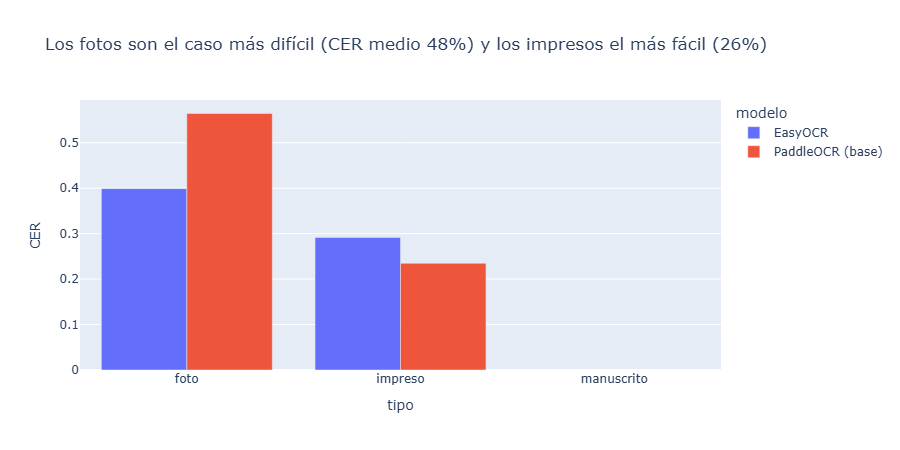
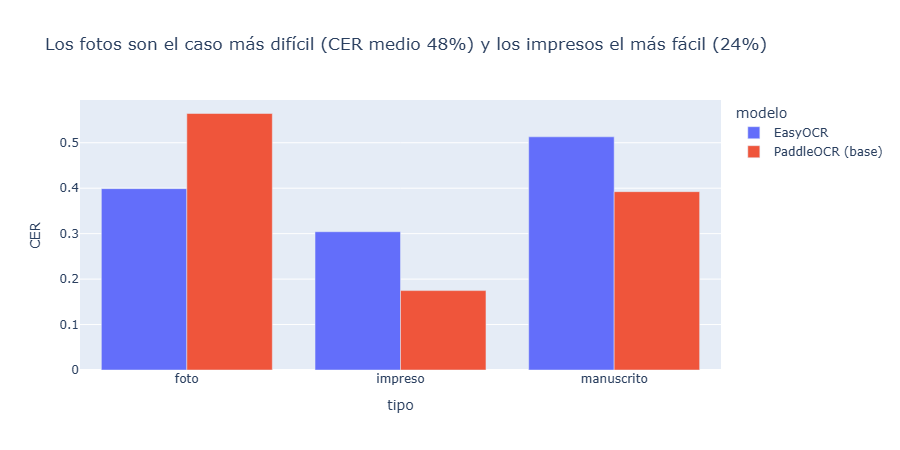
evaluacion: CER con 10 referencias manuales
CER medio: PaddleOCR 0,379 | EasyOCR 0,416. Por tipo (Paddle / Easy): impreso 0,175 / 0,304; foto 0,564 / 0,399; manuscrito 0,392 / 0,513. WER sin cambios: Parakeet 0,038 | faster-whisper small 0,070. Referencias de Roddy tal cual, con las personas privadas de doc_001 seudonimizadas.

Refs #5

Changed region(s): [[0.4356, 0.28, 0.7778, 0.84], [0.3422, 0.4978, 0.4667, 0.5289], [0.8089, 0.0933, 0.84, 0.1244]]

diff --git a/tarea_2/figuras/g5_wer_por_condicion.html b/tarea_2/figuras/g5_wer_por_condicion.html
@@ -6,6 +6,6 @@
 </head>
 <body>
     <div style="height:100%; width:100%;">                        <script>window.PlotlyConfig = {MathJaxConfig: 'local'};</script>
-        <script charset="utf-8" src="https://cdn.plot.ly/plotly-4.1.1.min.js" integrity="sha256-O24V1F27f8pb0glCkelh3cVHLNiHAJ5gCaVtq2aNch8=" crossorigin="anonymous"></script>                <div id="059fd807-6b8c-46a7-b594-c4d5debc4f9f" class="plotly-graph-div" style="height:100%; width:100%;"></div>            <script>                window.PLOTLYENV=window.PLOTLYENV || {};                                if (document.getElementById("059fd807-6b8c-46a7-b594-c4d5debc4f9f")) {                    Plotly.newPlot(                        "059fd807-6b8c-46a7-b594-c4d5debc4f9f",                        [{"alignmentgroup":"True","hovertemplate":"modelo=Parakeet TDT 0.6B v3\u003cbr\u003econdicion=%{x}\u003cbr\u003eWER=%{y}\u003cextra\u003e\u003c\u002fextra\u003e","legendgroup":"Parakeet TDT 0.6B v3","marker":{"color":"#636efa","pattern":{"shape":""}},"name":"Parakeet TDT 0.6B v3","offsetgroup":"Parakeet TDT 0.6B v3","orientation":"v","showlegend":true,"textposition":"auto","x":["2 hablantes alternados","hombre","mujer"],"xaxis":"x","y":{"dtype":"f8","bdata":"EWa7EGa7oD9r4cHwLmOiP7eXT7b\u002f8aQ\u002f"},"yaxis":"y","type":"bar"},{"alignmentgroup":"True","hovertemplate":"modelo=faster-whisper small (base)\u003cbr\u003econdicion=%{x}\u003cbr\u003eWER=%{y}\u003cextra\u003e\u003c\u002fextra\u003e","legendgroup":"faster-whisper small (base)","marker":{"color":"#EF553B","pattern":{"shape":""}},"name":"faster-whisper small (base)","offsetgroup":"faster-whisper small (base)","orientation":"v","showlegend":true,"textposition":"auto","x":["2 hablantes alternados","hombre","mujer"],"xaxis":"x","y":{"dtype":"f8","bdata":"G3DFGnDFuj\u002fQskqscOSwP08GO9VXCLE\u002f"},"yaxis":"y","type":"bar"}],                        {"template":{"data":{"histogram2dcontour":[{"type":"histogram2dcontour","colorbar":{"outlinewidth":0,"ticks":""},"colorscale":[[0.0,"#0d0887"],[0.1111111111111111,"#46039f"],[0.2222222222222222,"#7201a8"],[0.3333333333333333,"#9c179e"],[0.4444444444444444,"#bd3786"],[0.5555555555555556,"#d8576b"],[0.6666666666666666,"#ed7953"],[0.7777777777777778,"#fb9f3a"],[0.8888888888888888,"#fdca26"],[1.0,"#f0f921"]]}],"choropleth":[{"type":"choropleth","colorbar":{"outlinewidth":0,"ticks":""}}],"histogram2d":[{"type":"histogram2d","colorbar":{"outlinewidth":0,"ticks":""},"colorscale":[[0.0,"#0d0887"],[0.1111111111111111,"#46039f"],[0.2222222222222222,"#7201a8"],[0.3333333333333333,"#9c179e"],[0.4444444444444444,"#bd3786"],[0.5555555555555556,"#d8576b"],[0.6666666666666666,"#ed7953"],[0.7777777777777778,"#fb9f3a"],[0.8888888888888888,"#fdca26"],[1.0,"#f0f921"]]}],"heatmap":[{"type":"heatmap","colorbar":{"outlinewidth":0,"ticks":""},"colorscale":[[0.0,"#0d0887"],[0.1111111111111111,"#46039f"],[0.2222222222222222,"#7201a8"],[0.3333333333333333,"#9c179e"],[0.4444444444444444,"#bd3786"],[0.5555555555555556,"#d8576b"],[0.6666666666666666,"#ed7953"],[0.7777777777777778,"#fb9f3a"],[0.8888888888888888,"#fdca26"],[1.0,"#f0f921"]]}],"contourcarpet":[{"type":"contourcarpet","colorbar":{"outlinewidth":0,"ticks":""}}],"contour":[{"type":"contour","colorbar":{"outlinewidth":0,"ticks":""},"colorscale":[[0.0,"#0d0887"],[0.1111111111111111,"#46039f"],[0.2222222222222222,"#7201a8"],[0.3333333333333333,"#9c179e"],[0.4444444444444444,"#bd3786"],[0.5555555555555556,"#d8576b"],[0.6666666666666666,"#ed7953"],[0.7777777777777778,"#fb9f3a"],[0.8888888888888888,"#fdca26"],[1.0,"#f0f921"]]}],"surface":[{"type":"surface","colorbar":{"outlinewidth":0,"ticks":""},"colorscale":[[0.0,"#0d0887"],[0.1111111111111111,"#46039f"],[0.2222222222222222,"#7201a8"],[0.3333333333333333,"#9c179e"],[0.4444444444444444,"#bd3786"],[0.5555555555555556,"#d8576b"],[0.6666666666666666,"#ed7953"],[0.7777777777777778,"#fb9f3a"],[0.8888888888888888,"#fdca26"],[1.0,"#f0f921"]]}],"mesh3d":[{"type":"mesh3d","colorbar":{"outlinewidth":0,"ticks":""}}],"scatter":[{"fillpattern":{"fillmode":"overlay","size":10,"solidity":0.2},"type":"scatter"}],"parcoords":[{"type":"parcoords","line":{"colorbar":{"outlinewidth":0,"ticks":""}}}],"scatterpolargl":[{"type":"scatterpolargl","marker":{"colorbar":{"outlinewidth":0,"ticks":""}}}],"bar":[{"error_x":{"color":"#2a3f5f"},"error_y":{"color":"#2a3f5f"},"marker":{"line":{"color":"#E5ECF6","width":0.5},"pattern":{"fillmode":"overlay","size":10,"solidity":0.2}},"type":"bar"}],"scattergeo":[{"type":"scattergeo","marker":{"colorbar":{"outlinewidth":0,"ticks":""}}}],"scatterpolar":[{"type":"scatterpolar","marker":{"colorbar":{"outlinewidth":0,"ticks":""}}}],"histogram":[{"marker":{"pattern":{"fillmode":"overlay","size":10,"solidity":0.2}},"type":"histogram"}],"scattergl":[{"type":"scattergl","marker":{"colorbar":{"outlinewidth":0,"ticks":""}}}],"scatter3d":[{"type":"scatter3d","line":{"colorbar":{"outlinewidth":0,"ticks":""}},"marker":{"colorbar":{"outlinewidth":0,"ticks":""}}}],"scattermap":[{"type":"scattermap","marker":{"colorbar":{"outlinewidth":0,"ticks":""}}}],"scatterternary":[{"type":"scatterternary","marker":{"colorbar":{"outlinewidth":0,"ticks":""}}}],"scattercarpet":[{"type":"scattercarpet","marker":{"colorbar":{"outlinewidth":0,"ticks":""}}}],"carpet":[{"aaxis":{"endlinecolor":"#2a3f5f","gridcolor":"white","linecolor":"white","minorgridcolor":"white","startlinecolor":"#2a3f5f"},"baxis":{"endlinecolor":"#2a3f5f","gridcolor":"white","linecolor":"white","minorgridcolor":"white","startlinecolor":"#2a3f5f"},"type":"carpet"}],"table":[{"cells":{"fill":{"color":"#EBF0F8"},"line":{"color":"white"}},"header":{"fill":{"color":"#C8D4E3"},"line":{"color":"white"}},"type":"table"}],"barpolar":[{"marker":{"line":{"color":"#E5ECF6","width":0.5},"pattern":{"fillmode":"overlay","size":10,"solidity":0.2}},"type":"barpolar"}],"pie":[{"automargin":true,"type":"pie"}]},"layout":{"autotypenumbers":"strict","colorway":["#636efa","#EF553B","#00cc96","#ab63fa","#FFA15A","#19d3f3","#FF6692","#B6E880","#FF97FF","#FECB52"],"font":{"color":"#2a3f5f"},"hovermode":"closest","hoverlabel":{"align":"left"},"paper_bgcolor":"white","plot_bgcolor":"#E5ECF6","polar":{"bgcolor":"#E5ECF6","angularaxis":{"gridcolor":"white","linecolor":"white","ticks":""},"radialaxis":{"gridcolor":"white","linecolor":"white","ticks":""}},"ternary":{"bgcolor":"#E5ECF6","aaxis":{"gridcolor":"white","linecolor":"white","ticks":""},"baxis":{"gridcolor":"white","linecolor":"white","ticks":""},"caxis":{"gridcolor":"white","linecolor":"white","ticks":""}},"coloraxis":{"colorbar":{"outlinewidth":0,"ticks":""}},"colorscale":{"sequential":[[0.0,"#0d0887"],[0.1111111111111111,"#46039f"],[0.2222222222222222,"#7201a8"],[0.3333333333333333,"#9c179e"],[0.4444444444444444,"#bd3786"],[0.5555555555555556,"#d8576b"],[0.6666666666666666,"#ed7953"],[0.7777777777777778,"#fb9f3a"],[0.8888888888888888,"#fdca26"],[1.0,"#f0f921"]],"sequentialminus":[[0.0,"#0d0887"],[0.1111111111111111,"#46039f"],[0.2222222222222222,"#7201a8"],[0.3333333333333333,"#9c179e"],[0.4444444444444444,"#bd3786"],[0.5555555555555556,"#d8576b"],[0.6666666666666666,"#ed7953"],[0.7777777777777778,"#fb9f3a"],[0.8888888888888888,"#fdca26"],[1.0,"#f0f921"]],"diverging":[[0,"#8e0152"],[0.1,"#c51b7d"],[0.2,"#de77ae"],[0.3,"#f1b6da"],[0.4,"#fde0ef"],[0.5,"#f7f7f7"],[0.6,"#e6f5d0"],[0.7,"#b8e186"],[0.8,"#7fbc41"],[0.9,"#4d9221"],[1,"#276419"]]},"xaxis":{"gridcolor":"white","linecolor":"white","ticks":"","title":{"standoff":15},"zerolinecolor":"white","automargin":true,"zerolinewidth":2},"yaxis":{"gridcolor":"white","linecolor":"white","ticks":"","title":{"standoff":15},"zerolinecolor":"white","automargin":true,"zerolinewidth":2},"scene":{"xaxis":{"backgroundcolor":"#E5ECF6","gridcolor":"white","linecolor":"white","showbackground":true,"ticks":"","zerolinecolor":"white","gridwidth":2},"yaxis":{"backgroundcolor":"#E5ECF6","gridcolor":"white","linecolor":"white","showbackground":true,"ticks":"","zerolinecolor":"white","gridwidth":2},"zaxis":{"backgroundcolor":"#E5ECF6","gridcolor":"white","linecolor":"white","showbackground":true,"ticks":"","zerolinecolor":"white","gridwidth":2}},"shapedefaults":{"line":{"color":"#2a3f5f"}},"annotationdefaults":{"arrowcolor":"#2a3f5f","arrowhead":0,"arrowwidth":1},"geo":{"bgcolor":"white","landcolor":"#E5ECF6","subunitcolor":"white","showland":true,"showlakes":true,"lakecolor":"white"},"title":{"x":0.05}}},"xaxis":{"anchor":"y","domain":[0.0,1.0],"title":{"text":"condicion"}},"yaxis":{"anchor":"x","domain":[0.0,1.0],"title":{"text":"WER"}},"legend":{"title":{"text":"modelo"},"tracegroupgap":0},"title":{"text":"WER por condici\u00f3n de grabaci\u00f3n y modelo (mismos 10 clips)"},"barmode":"group"},                        {"responsive": true}                    )                };            </script>        </div>
+        <script charset="utf-8" src="https://cdn.plot.ly/plotly-4.1.1.min.js" integrity="sha256-O24V1F27f8pb0glCkelh3cVHLNiHAJ5gCaVtq2aNch8=" crossorigin="anonymous"></script>                <div id="bed6a4cb-d25c-4132-9ee0-a2effa1b8ccb" class="plotly-graph-div" style="height:100%; width:100%;"></div>            <script>                window.PLOTLYENV=window.PLOTLYENV || {};                                if (document.getElementById("bed6a4cb-d25c-4132-9ee0-a2effa1b8ccb")) {                    Plotly.newPlot(                        "bed6a4cb-d25c-4132-9ee0-a2effa1b8ccb",                        [{"alignmentgroup":"True","hovertemplate":"modelo=Parakeet TDT 0.6B v3\u003cbr\u003econdicion=%{x}\u003cbr\u003eWER=%{y}\u003cextra\u003e\u003c\u002fextra\u003e","legendgroup":"Parakeet TDT 0.6B v3","marker":{"color":"#636efa","pattern":{"shape":""}},"name":"Parakeet TDT 0.6B v3","offsetgroup":"Parakeet TDT 0.6B v3","orientation":"v","showlegend":true,"textposition":"auto","x":["2 hablantes alternados","hombre","mujer"],"xaxis":"x","y":{"dtype":"f8","bdata":"EWa7EGa7oD9r4cHwLmOiP7eXT7b\u002f8aQ\u002f"},"yaxis":"y","type":"bar"},{"alignmentgroup":"True","hovertemplate":"modelo=faster-whisper small (base)\u003cbr\u003econdicion=%{x}\u003cbr\u003eWER=%{y}\u003cextra\u003e\u003c\u002fextra\u003e","legendgroup":"faster-whisper small (base)","marker":{"color":"#EF553B","pattern":{"shape":""}},"name":"faster-whisper small (base)","offsetgroup":"faster-whisper small (base)","orientation":"v","showlegend":true,"textposition":"auto","x":["2 hablantes alternados","hombre","mujer"],"xaxis":"x","y":{"dtype":"f8","bdata":"G3DFGnDFuj\u002fQskqscOSwP08GO9VXCLE\u002f"},"yaxis":"y","type":"bar"}],                        {"template":{"data":{"histogram2dcontour":[{"type":"histogram2dcontour","colorbar":{"outlinewidth":0,"ticks":""},"colorscale":[[0.0,"#0d0887"],[0.1111111111111111,"#46039f"],[0.2222222222222222,"#7201a8"],[0.3333333333333333,"#9c179e"],[0.4444444444444444,"#bd3786"],[0.5555555555555556,"#d8576b"],[0.6666666666666666,"#ed7953"],[0.7777777777777778,"#fb9f3a"],[0.8888888888888888,"#fdca26"],[1.0,"#f0f921"]]}],"choropleth":[{"type":"choropleth","colorbar":{"outlinewidth":0,"ticks":""}}],"histogram2d":[{"type":"histogram2d","colorbar":{"outlinewidth":0,"ticks":""},"colorscale":[[0.0,"#0d0887"],[0.1111111111111111,"#46039f"],[0.2222222222222222,"#7201a8"],[0.3333333333333333,"#9c179e"],[0.4444444444444444,"#bd3786"],[0.5555555555555556,"#d8576b"],[0.6666666666666666,"#ed7953"],[0.7777777777777778,"#fb9f3a"],[0.8888888888888888,"#fdca26"],[1.0,"#f0f921"]]}],"heatmap":[{"type":"heatmap","colorbar":{"outlinewidth":0,"ticks":""},"colorscale":[[0.0,"#0d0887"],[0.1111111111111111,"#46039f"],[0.2222222222222222,"#7201a8"],[0.3333333333333333,"#9c179e"],[0.4444444444444444,"#bd3786"],[0.5555555555555556,"#d8576b"],[0.6666666666666666,"#ed7953"],[0.7777777777777778,"#fb9f3a"],[0.8888888888888888,"#fdca26"],[1.0,"#f0f921"]]}],"contourcarpet":[{"type":"contourcarpet","colorbar":{"outlinewidth":0,"ticks":""}}],"contour":[{"type":"contour","colorbar":{"outlinewidth":0,"ticks":""},"colorscale":[[0.0,"#0d0887"],[0.1111111111111111,"#46039f"],[0.2222222222222222,"#7201a8"],[0.3333333333333333,"#9c179e"],[0.4444444444444444,"#bd3786"],[0.5555555555555556,"#d8576b"],[0.6666666666666666,"#ed7953"],[0.7777777777777778,"#fb9f3a"],[0.8888888888888888,"#fdca26"],[1.0,"#f0f921"]]}],"surface":[{"type":"surface","colorbar":{"outlinewidth":0,"ticks":""},"colorscale":[[0.0,"#0d0887"],[0.1111111111111111,"#46039f"],[0.2222222222222222,"#7201a8"],[0.3333333333333333,"#9c179e"],[0.4444444444444444,"#bd3786"],[0.5555555555555556,"#d8576b"],[0.6666666666666666,"#ed7953"],[0.7777777777777778,"#fb9f3a"],[0.8888888888888888,"#fdca26"],[1.0,"#f0f921"]]}],"mesh3d":[{"type":"mesh3d","colorbar":{"outlinewidth":0,"ticks":""}}],"scatter":[{"fillpattern":{"fillmode":"overlay","size":10,"solidity":0.2},"type":"scatter"}],"parcoords":[{"type":"parcoords","line":{"colorbar":{"outlinewidth":0,"ticks":""}}}],"scatterpolargl":[{"type":"scatterpolargl","marker":{"colorbar":{"outlinewidth":0,"ticks":""}}}],"bar":[{"error_x":{"color":"#2a3f5f"},"error_y":{"color":"#2a3f5f"},"marker":{"line":{"color":"#E5ECF6","width":0.5},"pattern":{"fillmode":"overlay","size":10,"solidity":0.2}},"type":"bar"}],"scattergeo":[{"type":"scattergeo","marker":{"colorbar":{"outlinewidth":0,"ticks":""}}}],"scatterpolar":[{"type":"scatterpolar","marker":{"colorbar":{"outlinewidth":0,"ticks":""}}}],"histogram":[{"marker":{"pattern":{"fillmode":"overlay","size":10,"solidity":0.2}},"type":"histogram"}],"scattergl":[{"type":"scattergl","marker":{"colorbar":{"outlinewidth":0,"ticks":""}}}],"scatter3d":[{"type":"scatter3d","line":{"colorbar":{"outlinewidth":0,"ticks":""}},"marker":{"colorbar":{"outlinewidth":0,"ticks":""}}}],"scattermap":[{"type":"scattermap","marker":{"colorbar":{"outlinewidth":0,"ticks":""}}}],"scatterternary":[{"type":"scatterternary","marker":{"colorbar":{"outlinewidth":0,"ticks":""}}}],"scattercarpet":[{"type":"scattercarpet","marker":{"colorbar":{"outlinewidth":0,"ticks":""}}}],"carpet":[{"aaxis":{"endlinecolor":"#2a3f5f","gridcolor":"white","linecolor":"white","minorgridcolor":"white","startlinecolor":"#2a3f5f"},"baxis":{"endlinecolor":"#2a3f5f","gridcolor":"white","linecolor":"white","minorgridcolor":"white","startlinecolor":"#2a3f5f"},"type":"carpet"}],"table":[{"cells":{"fill":{"color":"#EBF0F8"},"line":{"color":"white"}},"header":{"fill":{"color":"#C8D4E3"},"line":{"color":"white"}},"type":"table"}],"barpolar":[{"marker":{"line":{"color":"#E5ECF6","width":0.5},"pattern":{"fillmode":"overlay","size":10,"solidity":0.2}},"type":"barpolar"}],"pie":[{"automargin":true,"type":"pie"}]},"layout":{"autotypenumbers":"strict","colorway":["#636efa","#EF553B","#00cc96","#ab63fa","#FFA15A","#19d3f3","#FF6692","#B6E880","#FF97FF","#FECB52"],"font":{"color":"#2a3f5f"},"hovermode":"closest","hoverlabel":{"align":"left"},"paper_bgcolor":"white","plot_bgcolor":"#E5ECF6","polar":{"bgcolor":"#E5ECF6","angularaxis":{"gridcolor":"white","linecolor":"white","ticks":""},"radialaxis":{"gridcolor":"white","linecolor":"white","ticks":""}},"ternary":{"bgcolor":"#E5ECF6","aaxis":{"gridcolor":"white","linecolor":"white","ticks":""},"baxis":{"gridcolor":"white","linecolor":"white","ticks":""},"caxis":{"gridcolor":"white","linecolor":"white","ticks":""}},"coloraxis":{"colorbar":{"outlinewidth":0,"ticks":""}},"colorscale":{"sequential":[[0.0,"#0d0887"],[0.1111111111111111,"#46039f"],[0.2222222222222222,"#7201a8"],[0.3333333333333333,"#9c179e"],[0.4444444444444444,"#bd3786"],[0.5555555555555556,"#d8576b"],[0.6666666666666666,"#ed7953"],[0.7777777777777778,"#fb9f3a"],[0.8888888888888888,"#fdca26"],[1.0,"#f0f921"]],"sequentialminus":[[0.0,"#0d0887"],[0.1111111111111111,"#46039f"],[0.2222222222222222,"#7201a8"],[0.3333333333333333,"#9c179e"],[0.4444444444444444,"#bd3786"],[0.5555555555555556,"#d8576b"],[0.6666666666666666,"#ed7953"],[0.7777777777777778,"#fb9f3a"],[0.8888888888888888,"#fdca26"],[1.0,"#f0f921"]],"diverging":[[0,"#8e0152"],[0.1,"#c51b7d"],[0.2,"#de77ae"],[0.3,"#f1b6da"],[0.4,"#fde0ef"],[0.5,"#f7f7f7"],[0.6,"#e6f5d0"],[0.7,"#b8e186"],[0.8,"#7fbc41"],[0.9,"#4d9221"],[1,"#276419"]]},"xaxis":{"gridcolor":"white","linecolor":"white","ticks":"","title":{"standoff":15},"zerolinecolor":"white","automargin":true,"zerolinewidth":2},"yaxis":{"gridcolor":"white","linecolor":"white","ticks":"","title":{"standoff":15},"zerolinecolor":"white","automargin":true,"zerolinewidth":2},"scene":{"xaxis":{"backgroundcolor":"#E5ECF6","gridcolor":"white","linecolor":"white","showbackground":true,"ticks":"","zerolinecolor":"white","gridwidth":2},"yaxis":{"backgroundcolor":"#E5ECF6","gridcolor":"white","linecolor":"white","showbackground":true,"ticks":"","zerolinecolor":"white","gridwidth":2},"zaxis":{"backgroundcolor":"#E5ECF6","gridcolor":"white","linecolor":"white","showbackground":true,"ticks":"","zerolinecolor":"white","gridwidth":2}},"shapedefaults":{"line":{"color":"#2a3f5f"}},"annotationdefaults":{"arrowcolor":"#2a3f5f","arrowhead":0,"arrowwidth":1},"geo":{"bgcolor":"white","landcolor":"#E5ECF6","subunitcolor":"white","showland":true,"showlakes":true,"lakecolor":"white"},"title":{"x":0.05}}},"xaxis":{"anchor":"y","domain":[0.0,1.0],"title":{"text":"condicion"}},"yaxis":{"anchor":"x","domain":[0.0,1.0],"title":{"text":"WER"}},"legend":{"title":{"text":"modelo"},"tracegroupgap":0},"title":{"text":"WER por condici\u00f3n de grabaci\u00f3n y modelo (mismos 10 clips)"},"barmode":"group"},                        {"responsive": true}                    )                };            </script>        </div>
 </body>
 </html>

diff --git a/tarea_2/figuras/g4_cer_por_tipo.html b/tarea_2/figuras/g4_cer_por_tipo.html
@@ -6,6 +6,6 @@
 </head>
 <body>
     <div style="height:100%; width:100%;">                        <script>window.PlotlyConfig = {MathJaxConfig: 'local'};</script>
-        <script charset="utf-8" src="https://cdn.plot.ly/plotly-4.1.1.min.js" integrity="sha256-O24V1F27f8pb0glCkelh3cVHLNiHAJ5gCaVtq2aNch8=" crossorigin="anonymous"></script>                <div id="b2697799-7936-4758-bdce-804da4869481" class="plotly-graph-div" style="height:100%; width:100%;"></div>            <script>                window.PLOTLYENV=window.PLOTLYENV || {};                                if (document.getElementById("b2697799-7936-4758-bdce-804da4869481")) {                    Plotly.newPlot(                        "b2697799-7936-4758-bdce-804da4869481",                        [{"alignmentgroup":"True","hovertemplate":"modelo=EasyOCR\u003cbr\u003etipo=%{x}\u003cbr\u003eCER=%{y}\u003cextra\u003e\u003c\u002fextra\u003e","legendgroup":"EasyOCR","marker":{"color":"#636efa","pattern":{"shape":""}},"name":"EasyOCR","offsetgroup":"EasyOCR","orientation":"v","showlegend":true,"textposition":"auto","x":["foto","impreso","manuscrito"],"xaxis":"x","y":{"dtype":"f8","bdata":"\u002fzQu3S6K2T9MWsIds6rSPwAAAAAAAPh\u002f"},"yaxis":"y","type":"bar"},{"alignmentgroup":"True","hovertemplate":"modelo=PaddleOCR (base)\u003cbr\u003etipo=%{x}\u003cbr\u003eCER=%{y}\u003cextra\u003e\u003c\u002fextra\u003e","legendgroup":"PaddleOCR (base)","marker":{"color":"#EF553B","pattern":{"shape":""}},"name":"PaddleOCR (base)","offsetgroup":"PaddleOCR (base)","orientation":"v","showlegend":true,"textposition":"auto","x":["foto","impreso","manuscrito"],"xaxis":"x","y":{"dtype":"f8","bdata":"k8lvaTYP4j+oaVddoAvOPwAAAAAAAPh\u002f"},"yaxis":"y","type":"bar"}],                        {"template":{"data":{"histogram2dcontour":[{"type":"histogram2dcontour","colorbar":{"outlinewidth":0,"ticks":""},"colorscale":[[0.0,"#0d0887"],[0.1111111111111111,"#46039f"],[0.2222222222222222,"#7201a8"],[0.3333333333333333,"#9c179e"],[0.4444444444444444,"#bd3786"],[0.5555555555555556,"#d8576b"],[0.6666666666666666,"#ed7953"],[0.7777777777777778,"#fb9f3a"],[0.8888888888888888,"#fdca26"],[1.0,"#f0f921"]]}],"choropleth":[{"type":"choropleth","colorbar":{"outlinewidth":0,"ticks":""}}],"histogram2d":[{"type":"histogram2d","colorbar":{"outlinewidth":0,"ticks":""},"colorscale":[[0.0,"#0d0887"],[0.1111111111111111,"#46039f"],[0.2222222222222222,"#7201a8"],[0.3333333333333333,"#9c179e"],[0.4444444444444444,"#bd3786"],[0.5555555555555556,"#d8576b"],[0.6666666666666666,"#ed7953"],[0.7777777777777778,"#fb9f3a"],[0.8888888888888888,"#fdca26"],[1.0,"#f0f921"]]}],"heatmap":[{"type":"heatmap","colorbar":{"outlinewidth":0,"ticks":""},"colorscale":[[0.0,"#0d0887"],[0.1111111111111111,"#46039f"],[0.2222222222222222,"#7201a8"],[0.3333333333333333,"#9c179e"],[0.4444444444444444,"#bd3786"],[0.5555555555555556,"#d8576b"],[0.6666666666666666,"#ed7953"],[0.7777777777777778,"#fb9f3a"],[0.8888888888888888,"#fdca26"],[1.0,"#f0f921"]]}],"contourcarpet":[{"type":"contourcarpet","colorbar":{"outlinewidth":0,"ticks":""}}],"contour":[{"type":"contour","colorbar":{"outlinewidth":0,"ticks":""},"colorscale":[[0.0,"#0d0887"],[0.1111111111111111,"#46039f"],[0.2222222222222222,"#7201a8"],[0.3333333333333333,"#9c179e"],[0.4444444444444444,"#bd3786"],[0.5555555555555556,"#d8576b"],[0.6666666666666666,"#ed7953"],[0.7777777777777778,"#fb9f3a"],[0.8888888888888888,"#fdca26"],[1.0,"#f0f921"]]}],"surface":[{"type":"surface","colorbar":{"outlinewidth":0,"ticks":""},"colorscale":[[0.0,"#0d0887"],[0.1111111111111111,"#46039f"],[0.2222222222222222,"#7201a8"],[0.3333333333333333,"#9c179e"],[0.4444444444444444,"#bd3786"],[0.5555555555555556,"#d8576b"],[0.6666666666666666,"#ed7953"],[0.7777777777777778,"#fb9f3a"],[0.8888888888888888,"#fdca26"],[1.0,"#f0f921"]]}],"mesh3d":[{"type":"mesh3d","colorbar":{"outlinewidth":0,"ticks":""}}],"scatter":[{"fillpattern":{"fillmode":"overlay","size":10,"solidity":0.2},"type":"scatter"}],"parcoords":[{"type":"parcoords","line":{"colorbar":{"outlinewidth":0,"ticks":""}}}],"scatterpolargl":[{"type":"scatterpolargl","marker":{"colorbar":{"outlinewidth":0,"ticks":""}}}],"bar":[{"error_x":{"color":"#2a3f5f"},"error_y":{"color":"#2a3f5f"},"marker":{"line":{"color":"#E5ECF6","width":0.5},"pattern":{"fillmode":"overlay","size":10,"solidity":0.2}},"type":"bar"}],"scattergeo":[{"type":"scattergeo","marker":{"colorbar":{"outlinewidth":0,"ticks":""}}}],"scatterpolar":[{"type":"scatterpolar","marker":{"colorbar":{"outlinewidth":0,"ticks":""}}}],"histogram":[{"marker":{"pattern":{"fillmode":"overlay","size":10,"solidity":0.2}},"type":"histogram"}],"scattergl":[{"type":"scattergl","marker":{"colorbar":{"outlinewidth":0,"ticks":""}}}],"scatter3d":[{"type":"scatter3d","line":{"colorbar":{"outlinewidth":0,"ticks":""}},"marker":{"colorbar":{"outlinewidth":0,"ticks":""}}}],"scattermap":[{"type":"scattermap","marker":{"colorbar":{"outlinewidth":0,"ticks":""}}}],"scatterternary":[{"type":"scatterternary","marker":{"colorbar":{"outlinewidth":0,"ticks":""}}}],"scattercarpet":[{"type":"scattercarpet","marker":{"colorbar":{"outlinewidth":0,"ticks":""}}}],"carpet":[{"aaxis":{"endlinecolor":"#2a3f5f","gridcolor":"white","linecolor":"white","minorgridcolor":"white","startlinecolor":"#2a3f5f"},"baxis":{"endlinecolor":"#2a3f5f","gridcolor":"white","linecolor":"white","minorgridcolor":"white","startlinecolor":"#2a3f5f"},"type":"carpet"}],"table":[{"cells":{"fill":{"color":"#EBF0F8"},"line":{"color":"white"}},"header":{"fill":{"color":"#C8D4E3"},"line":{"color":"white"}},"type":"table"}],"barpolar":[{"marker":{"line":{"color":"#E5ECF6","width":0.5},"pattern":{"fillmode":"overlay","size":10,"solidity":0.2}},"type":"barpolar"}],"pie":[{"automargin":true,"type":"pie"}]},"layout":{"autotypenumbers":"strict","colorway":["#636efa","#EF553B","#00cc96","#ab63fa","#FFA15A","#19d3f3","#FF6692","#B6E880","#FF97FF","#FECB52"],"font":{"color":"#2a3f5f"},"hovermode":"closest","hoverlabel":{"align":"left"},"paper_bgcolor":"white","plot_bgcolor":"#E5ECF6","polar":{"bgcolor":"#E5ECF6","angularaxis":{"gridcolor":"white","linecolor":"white","ticks":""},"radialaxis":{"gridcolor":"white","linecolor":"white","ticks":""}},"ternary":{"bgcolor":"#E5ECF6","aaxis":{"gridcolor":"white","linecolor":"white","ticks":""},"baxis":{"gridcolor":"white","linecolor":"white","ticks":""},"caxis":{"gridcolor":"white","linecolor":"white","ticks":""}},"coloraxis":{"colorbar":{"outlinewidth":0,"ticks":""}},"colorscale":{"sequential":[[0.0,"#0d0887"],[0.1111111111111111,"#46039f"],[0.2222222222222222,"#7201a8"],[0.3333333333333333,"#9c179e"],[0.4444444444444444,"#bd3786"],[0.5555555555555556,"#d8576b"],[0.6666666666666666,"#ed7953"],[0.7777777777777778,"#fb9f3a"],[0.8888888888888888,"#fdca26"],[1.0,"#f0f921"]],"sequentialminus":[[0.0,"#0d0887"],[0.1111111111111111,"#46039f"],[0.2222222222222222,"#7201a8"],[0.3333333333333333,"#9c179e"],[0.4444444444444444,"#bd3786"],[0.5555555555555556,"#d8576b"],[0.6666666666666666,"#ed7953"],[0.7777777777777778,"#fb9f3a"],[0.8888888888888888,"#fdca26"],[1.0,"#f0f921"]],"diverging":[[0,"#8e0152"],[0.1,"#c51b7d"],[0.2,"#de77ae"],[0.3,"#f1b6da"],[0.4,"#fde0ef"],[0.5,"#f7f7f7"],[0.6,"#e6f5d0"],[0.7,"#b8e186"],[0.8,"#7fbc41"],[0.9,"#4d9221"],[1,"#276419"]]},"xaxis":{"gridcolor":"white","linecolor":"white","ticks":"","title":{"standoff":15},"zerolinecolor":"white","automargin":true,"zerolinewidth":2},"yaxis":{"gridcolor":"white","linecolor":"white","ticks":"","title":{"standoff":15},"zerolinecolor":"white","automargin":true,"zerolinewidth":2},"scene":{"xaxis":{"backgroundcolor":"#E5ECF6","gridcolor":"white","linecolor":"white","showbackground":true,"ticks":"","zerolinecolor":"white","gridwidth":2},"yaxis":{"backgroundcolor":"#E5ECF6","gridcolor":"white","linecolor":"white","showbackground":true,"ticks":"","zerolinecolor":"white","gridwidth":2},"zaxis":{"backgroundcolor":"#E5ECF6","gridcolor":"white","linecolor":"white","showbackground":true,"ticks":"","zerolinecolor":"white","gridwidth":2}},"shapedefaults":{"line":{"color":"#2a3f5f"}},"annotationdefaults":{"arrowcolor":"#2a3f5f","arrowhead":0,"arrowwidth":1},"geo":{"bgcolor":"white","landcolor":"#E5ECF6","subunitcolor":"white","showland":true,"showlakes":true,"lakecolor":"white"},"title":{"x":0.05}}},"xaxis":{"anchor":"y","domain":[0.0,1.0],"title":{"text":"tipo"}},"yaxis":{"anchor":"x","domain":[0.0,1.0],"title":{"text":"CER"}},"legend":{"title":{"text":"modelo"},"tracegroupgap":0},"title":{"text":"Los fotos son el caso m\u00e1s dif\u00edcil (CER medio 48%) y los impresos el m\u00e1s f\u00e1cil (26%)"},"barmode":"group"},                        {"responsive": true}                    )                };            </script>        </div>
+        <script charset="utf-8" src="https://cdn.plot.ly/plotly-4.1.1.min.js" integrity="sha256-O24V1F27f8pb0glCkelh3cVHLNiHAJ5gCaVtq2aNch8=" crossorigin="anonymous"></script>                <div id="904e5649-f831-4059-8623-6a527b1d5b62" class="plotly-graph-div" style="height:100%; width:100%;"></div>            <script>                window.PLOTLYENV=window.PLOTLYENV || {};                                if (document.getElementById("904e5649-f831-4059-8623-6a527b1d5b62")) {                    Plotly.newPlot(                        "904e5649-f831-4059-8623-6a527b1d5b62",                        [{"alignmentgroup":"True","hovertemplate":"modelo=EasyOCR\u003cbr\u003etipo=%{x}\u003cbr\u003eCER=%{y}\u003cextra\u003e\u003c\u002fextra\u003e","legendgroup":"EasyOCR","marker":{"color":"#636efa","pattern":{"shape":""}},"name":"EasyOCR","offsetgroup":"EasyOCR","orientation":"v","showlegend":true,"textposition":"auto","x":["foto","impreso","manuscrito"],"xaxis":"x","y":{"dtype":"f8","bdata":"\u002fzQu3S6K2T+QXNGtn3jTP12vIOO2auA\u002f"},"yaxis":"y","type":"bar"},{"alignmentgroup":"True","hovertemplate":"modelo=PaddleOCR (base)\u003cbr\u003etipo=%{x}\u003cbr\u003eCER=%{y}\u003cextra\u003e\u003c\u002fextra\u003e","legendgroup":"PaddleOCR (base)","marker":{"color":"#EF553B","pattern":{"shape":""}},"name":"PaddleOCR (base)","offsetgroup":"PaddleOCR (base)","orientation":"v","showlegend":true,"textposition":"auto","x":["foto","impreso","manuscrito"],"xaxis":"x","y":{"dtype":"f8","bdata":"k8lvaTYP4j98DbHoeVzGP+Q47w2RHNk\u002f"},"yaxis":"y","type":"bar"}],                        {"template":{"data":{"histogram2dcontour":[{"type":"histogram2dcontour","colorbar":{"outlinewidth":0,"ticks":""},"colorscale":[[0.0,"#0d0887"],[0.1111111111111111,"#46039f"],[0.2222222222222222,"#7201a8"],[0.3333333333333333,"#9c179e"],[0.4444444444444444,"#bd3786"],[0.5555555555555556,"#d8576b"],[0.6666666666666666,"#ed7953"],[0.7777777777777778,"#fb9f3a"],[0.8888888888888888,"#fdca26"],[1.0,"#f0f921"]]}],"choropleth":[{"type":"choropleth","colorbar":{"outlinewidth":0,"ticks":""}}],"histogram2d":[{"type":"histogram2d","colorbar":{"outlinewidth":0,"ticks":""},"colorscale":[[0.0,"#0d0887"],[0.1111111111111111,"#46039f"],[0.2222222222222222,"#7201a8"],[0.3333333333333333,"#9c179e"],[0.4444444444444444,"#bd3786"],[0.5555555555555556,"#d8576b"],[0.6666666666666666,"#ed7953"],[0.7777777777777778,"#fb9f3a"],[0.8888888888888888,"#fdca26"],[1.0,"#f0f921"]]}],"heatmap":[{"type":"heatmap","colorbar":{"outlinewidth":0,"ticks":""},"colorscale":[[0.0,"#0d0887"],[0.1111111111111111,"#46039f"],[0.2222222222222222,"#7201a8"],[0.3333333333333333,"#9c179e"],[0.4444444444444444,"#bd3786"],[0.5555555555555556,"#d8576b"],[0.6666666666666666,"#ed7953"],[0.7777777777777778,"#fb9f3a"],[0.8888888888888888,"#fdca26"],[1.0,"#f0f921"]]}],"contourcarpet":[{"type":"contourcarpet","colorbar":{"outlinewidth":0,"ticks":""}}],"contour":[{"type":"contour","colorbar":{"outlinewidth":0,"ticks":""},"colorscale":[[0.0,"#0d0887"],[0.1111111111111111,"#46039f"],[0.2222222222222222,"#7201a8"],[0.3333333333333333,"#9c179e"],[0.4444444444444444,"#bd3786"],[0.5555555555555556,"#d8576b"],[0.6666666666666666,"#ed7953"],[0.7777777777777778,"#fb9f3a"],[0.8888888888888888,"#fdca26"],[1.0,"#f0f921"]]}],"surface":[{"type":"surface","colorbar":{"outlinewidth":0,"ticks":""},"colorscale":[[0.0,"#0d0887"],[0.1111111111111111,"#46039f"],[0.2222222222222222,"#7201a8"],[0.3333333333333333,"#9c179e"],[0.4444444444444444,"#bd3786"],[0.5555555555555556,"#d8576b"],[0.6666666666666666,"#ed7953"],[0.7777777777777778,"#fb9f3a"],[0.8888888888888888,"#fdca26"],[1.0,"#f0f921"]]}],"mesh3d":[{"type":"mesh3d","colorbar":{"outlinewidth":0,"ticks":""}}],"scatter":[{"fillpattern":{"fillmode":"overlay","size":10,"solidity":0.2},"type":"scatter"}],"parcoords":[{"type":"parcoords","line":{"colorbar":{"outlinewidth":0,"ticks":""}}}],"scatterpolargl":[{"type":"scatterpolargl","marker":{"colorbar":{"outlinewidth":0,"ticks":""}}}],"bar":[{"error_x":{"color":"#2a3f5f"},"error_y":{"color":"#2a3f5f"},"marker":{"line":{"color":"#E5ECF6","width":0.5},"pattern":{"fillmode":"overlay","size":10,"solidity":0.2}},"type":"bar"}],"scattergeo":[{"type":"scattergeo","marker":{"colorbar":{"outlinewidth":0,"ticks":""}}}],"scatterpolar":[{"type":"scatterpolar","marker":{"colorbar":{"outlinewidth":0,"ticks":""}}}],"histogram":[{"marker":{"pattern":{"fillmode":"overlay","size":10,"solidity":0.2}},"type":"histogram"}],"scattergl":[{"type":"scattergl","marker":{"colorbar":{"outlinewidth":0,"ticks":""}}}],"scatter3d":[{"type":"scatter3d","line":{"colorbar":{"outlinewidth":0,"ticks":""}},"marker":{"colorbar":{"outlinewidth":0,"ticks":""}}}],"scattermap":[{"type":"scattermap","marker":{"colorbar":{"outlinewidth":0,"ticks":""}}}],"scatterternary":[{"type":"scatterternary","marker":{"colorbar":{"outlinewidth":0,"ticks":""}}}],"scattercarpet":[{"type":"scattercarpet","marker":{"colorbar":{"outlinewidth":0,"ticks":""}}}],"carpet":[{"aaxis":{"endlinecolor":"#2a3f5f","gridcolor":"white","linecolor":"white","minorgridcolor":"white","startlinecolor":"#2a3f5f"},"baxis":{"endlinecolor":"#2a3f5f","gridcolor":"white","linecolor":"white","minorgridcolor":"white","startlinecolor":"#2a3f5f"},"type":"carpet"}],"table":[{"cells":{"fill":{"color":"#EBF0F8"},"line":{"color":"white"}},"header":{"fill":{"color":"#C8D4E3"},"line":{"color":"white"}},"type":"table"}],"barpolar":[{"marker":{"line":{"color":"#E5ECF6","width":0.5},"pattern":{"fillmode":"overlay","size":10,"solidity":0.2}},"type":"barpolar"}],"pie":[{"automargin":true,"type":"pie"}]},"layout":{"autotypenumbers":"strict","colorway":["#636efa","#EF553B","#00cc96","#ab63fa","#FFA15A","#19d3f3","#FF6692","#B6E880","#FF97FF","#FECB52"],"font":{"color":"#2a3f5f"},"hovermode":"closest","hoverlabel":{"align":"left"},"paper_bgcolor":"white","plot_bgcolor":"#E5ECF6","polar":{"bgcolor":"#E5ECF6","angularaxis":{"gridcolor":"white","linecolor":"white","ticks":""},"radialaxis":{"gridcolor":"white","linecolor":"white","ticks":""}},"ternary":{"bgcolor":"#E5ECF6","aaxis":{"gridcolor":"white","linecolor":"white","ticks":""},"baxis":{"gridcolor":"white","linecolor":"white","ticks":""},"caxis":{"gridcolor":"white","linecolor":"white","ticks":""}},"coloraxis":{"colorbar":{"outlinewidth":0,"ticks":""}},"colorscale":{"sequential":[[0.0,"#0d0887"],[0.1111111111111111,"#46039f"],[0.2222222222222222,"#7201a8"],[0.3333333333333333,"#9c179e"],[0.4444444444444444,"#bd3786"],[0.5555555555555556,"#d8576b"],[0.6666666666666666,"#ed7953"],[0.7777777777777778,"#fb9f3a"],[0.8888888888888888,"#fdca26"],[1.0,"#f0f921"]],"sequentialminus":[[0.0,"#0d0887"],[0.1111111111111111,"#46039f"],[0.2222222222222222,"#7201a8"],[0.3333333333333333,"#9c179e"],[0.4444444444444444,"#bd3786"],[0.5555555555555556,"#d8576b"],[0.6666666666666666,"#ed7953"],[0.7777777777777778,"#fb9f3a"],[0.8888888888888888,"#fdca26"],[1.0,"#f0f921"]],"diverging":[[0,"#8e0152"],[0.1,"#c51b7d"],[0.2,"#de77ae"],[0.3,"#f1b6da"],[0.4,"#fde0ef"],[0.5,"#f7f7f7"],[0.6,"#e6f5d0"],[0.7,"#b8e186"],[0.8,"#7fbc41"],[0.9,"#4d9221"],[1,"#276419"]]},"xaxis":{"gridcolor":"white","linecolor":"white","ticks":"","title":{"standoff":15},"zerolinecolor":"white","automargin":true,"zerolinewidth":2},"yaxis":{"gridcolor":"white","linecolor":"white","ticks":"","title":{"standoff":15},"zerolinecolor":"white","automargin":true,"zerolinewidth":2},"scene":{"xaxis":{"backgroundcolor":"#E5ECF6","gridcolor":"white","linecolor":"white","showbackground":true,"ticks":"","zerolinecolor":"white","gridwidth":2},"yaxis":{"backgroundcolor":"#E5ECF6","gridcolor":"white","linecolor":"white","showbackground":true,"ticks":"","zerolinecolor":"white","gridwidth":2},"zaxis":{"backgroundcolor":"#E5ECF6","gridcolor":"white","linecolor":"white","showbackground":true,"ticks":"","zerolinecolor":"white","gridwidth":2}},"shapedefaults":{"line":{"color":"#2a3f5f"}},"annotationdefaults":{"arrowcolor":"#2a3f5f","arrowhead":0,"arrowwidth":1},"geo":{"bgcolor":"white","landcolor":"#E5ECF6","subunitcolor":"white","showland":true,"showlakes":true,"lakecolor":"white"},"title":{"x":0.05}}},"xaxis":{"anchor":"y","domain":[0.0,1.0],"title":{"text":"tipo"}},"yaxis":{"anchor":"x","domain":[0.0,1.0],"title":{"text":"CER"}},"legend":{"title":{"text":"modelo"},"tracegroupgap":0},"title":{"text":"Los fotos son el caso m\u00e1s dif\u00edcil (CER medio 48%) y los impresos el m\u00e1s f\u00e1cil (24%)"},"barmode":"group"},                        {"responsive": true}                    )                };            </script>        </div>
 </body>
 </html>
